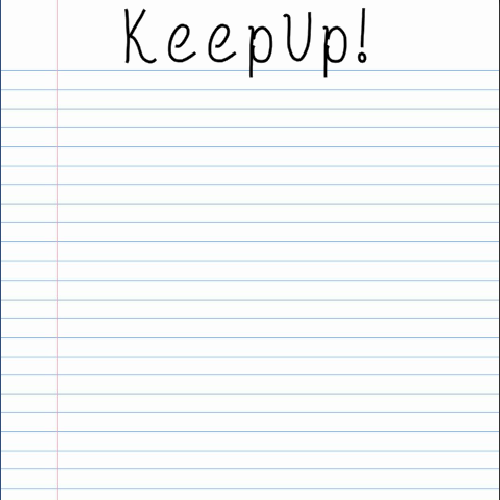
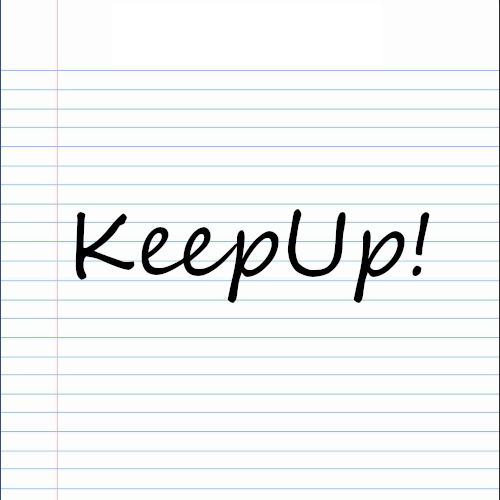
"Modernized" the pictures (See tweet in desc of commit)
https://twitter.com/DanBullockCS/status/1349811249824100353

diff --git a/styles/index.css b/styles/index.css
@@ -138,7 +138,7 @@ img {
 
 .DB-Logo {
 	width: 150px;
-	border-radius: 1rem;
+	border-radius: 50%;
 	transition: all .1s;
 	border: #35BDB9 solid 1px;
 }
@@ -160,7 +160,7 @@ a:hover {
 
 .project-logo {
 	width: 250px;
-	border-radius: 1rem;
+	border-radius: 50%;
 	transition: all .1s;
 	border: #35BDB9 solid 1px;
 }
